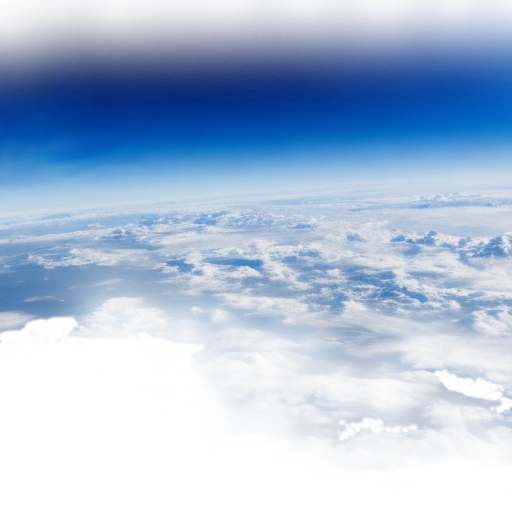
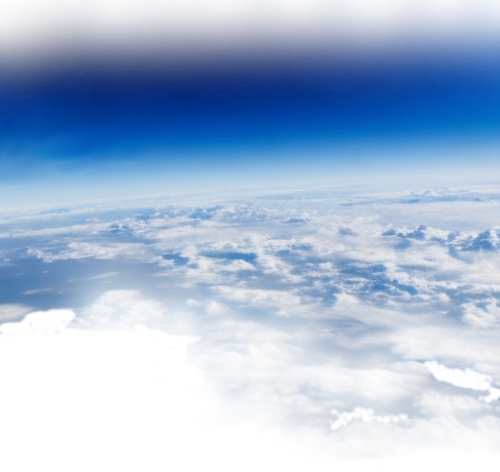
Updated assets and styling

Changed region(s): [[0.0, 0.2373, 1.0, 0.9195], [0.42, 0.7119, 0.48, 0.7415]]

diff --git a/jonharvey-tech/src/components/storyScenes/LaunchScene.tsx b/jonharvey-tech/src/components/storyScenes/LaunchScene.tsx
@@ -79,22 +79,22 @@ const LaunchScene: React.FC<LaunchSceneProps> = ({ scrollY, boundingRect }) => {
   };
 
   // JS to CSS transform strings
-  const transformGround0 = animateHTMLY(58, 1);
-  const transformGround1 = animateHTMLY(-20, 0.9);
-  const transformGround2 = animateHTMLY(-15, 0.7);
-  const transformGround3 = animateHTMLY(-35, 0.5);
-  const transformSky = animateHTMLY(-92, 0.3);
-  const transformClouds = `${animateHTMLY(-53, 0.65)} ${animateHTMLX(0, -0.2)}`;
-  const transformCloudBank1 = `${animateHTMLY(-120, 0.45)} ${animateHTMLX(15, -0.3)}`;
-  const transformCloudBank2 = `${animateHTMLY(-120, 0.44)} ${animateHTMLX(0, -0.4)}`;
-  const transformCloudBank3 = `${animateHTMLY(-120, 0.43)} ${animateHTMLX(0, 0.3)}`;
-  const transformCloudBank4 = `${animateHTMLY(-120, 0.42)} ${animateHTMLX(0, -0.3)}`;
-  const transformCloudBank5 = `${animateHTMLY(-120, 0.41)} ${animateHTMLX(0, 0.3)}`;
+  const transformGround0 = animateHTMLY(67, 1);
+  const transformGround1 = animateHTMLY(-11, 0.9);
+  const transformGround2 = animateHTMLY(-1, 0.8);
+  const transformGround3 = animateHTMLY(-26, 0.7);
+  const transformSky = animateHTMLY(-80, 0.3);
+  const transformClouds = `${animateHTMLY(-44, 0.9)} ${animateHTMLX(0, -0.2)}`;
+  const transformCloudBank1 = `${animateHTMLY(-50, 0.9)} ${animateHTMLX(15, -0.3)}`;
+  const transformCloudBank2 = `${animateHTMLY(-80, 0.64)} ${animateHTMLX(0, -0.4)}`;
+  const transformCloudBank3 = `${animateHTMLY(-110, 0.43)} ${animateHTMLX(0, 0.3)}`;
+  const transformCloudBank4 = `${animateHTMLY(-110, 0.42)} ${animateHTMLX(0, -0.3)}`;
+  const transformCloudBank5 = `${animateHTMLY(-110, 0.41)} ${animateHTMLX(0, 0.3)}`;
   const transformGlobeSpace = animateHTMLY(-180, 0.5);
-  const transformSpace = animateHTMLY(-220, 0.4);
+  const transformSpace = animateHTMLY(-210, 0.4);
 
-  const opacityStartScroll = 25;
-  const opacityEndScroll = 33;
+  const opacityStartScroll = 20;
+  const opacityEndScroll = 30;
 
   const calculateOpacity = (effectiveScrollY: number) => {
     if (scrollY < opacityStartScroll) return 1; // Full opacity before starting point
@@ -141,7 +141,7 @@ const LaunchScene: React.FC<LaunchSceneProps> = ({ scrollY, boundingRect }) => {
           alt='background sky'
           layout='responsive'
           width={500}
-          height={500}
+          height={472}
           objectFit='cover'
         />
       </div>
@@ -173,7 +173,7 @@ const LaunchScene: React.FC<LaunchSceneProps> = ({ scrollY, boundingRect }) => {
           alt='background clouds'
           layout='responsive'
           width={500}
-          height={500}
+          height={136}
           objectFit='cover'
         />
       </div>
@@ -189,7 +189,7 @@ const LaunchScene: React.FC<LaunchSceneProps> = ({ scrollY, boundingRect }) => {
           alt='background clouds'
           layout='responsive'
           width={500}
-          height={500}
+          height={188}
           objectFit='cover'
         />
       </div>
@@ -206,7 +206,7 @@ const LaunchScene: React.FC<LaunchSceneProps> = ({ scrollY, boundingRect }) => {
           alt='background clouds'
           layout='responsive'
           width={500}
-          height={500}
+          height={183}
           objectFit='cover'
         />
       </div>
@@ -223,7 +223,7 @@ const LaunchScene: React.FC<LaunchSceneProps> = ({ scrollY, boundingRect }) => {
           alt='background clouds'
           layout='responsive'
           width={500}
-          height={500}
+          height={188}
           objectFit='cover'
         />
       </div>
@@ -240,7 +240,7 @@ const LaunchScene: React.FC<LaunchSceneProps> = ({ scrollY, boundingRect }) => {
           alt='background clouds'
           layout='responsive'
           width={500}
-          height={500}
+          height={133}
           objectFit='cover'
         />
       </div>
@@ -256,7 +256,7 @@ const LaunchScene: React.FC<LaunchSceneProps> = ({ scrollY, boundingRect }) => {
           alt='background clouds'
           layout='responsive'
           width={500}
-          height={413}
+          height={215}
           objectFit='cover'
         />
       </div>

diff --git a/jonharvey-tech/src/components/storyScenes/LaunchScene.module.css b/jonharvey-tech/src/components/storyScenes/LaunchScene.module.css
@@ -26,7 +26,9 @@
   top: 0;
   left: 0;
   width: 100%;
+  max-width: 100%;
   min-height: 100%;
+  
 }
 .deepSpace {
   z-index: 2;
@@ -44,14 +46,14 @@
   z-index: 2;
 }
 .launchGround0 {
-  z-index: 5;
-}
-.launchGround1 {
   z-index: 4;
 }
-.launchGround2 {
+.launchGround1 {
   z-index: 3;
 }
-.launchGround3 {
+.launchGround2 {
   z-index: 2;
+}
+.launchGround3 {
+  z-index: 1;
 }
